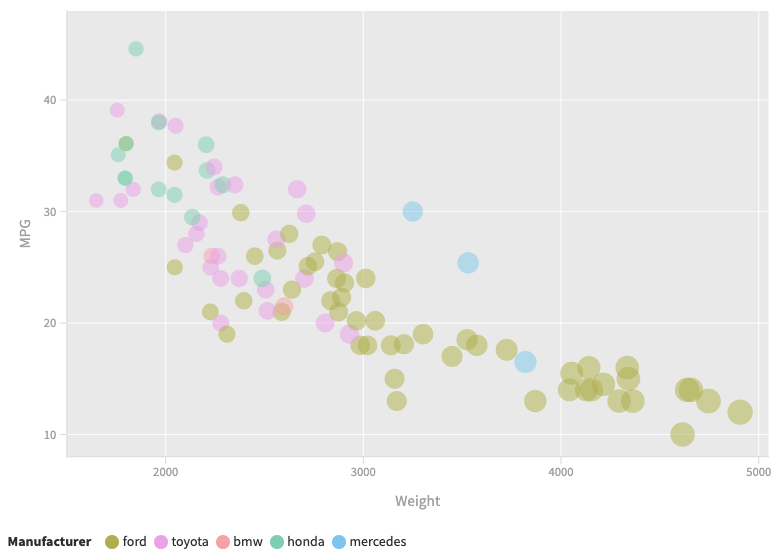
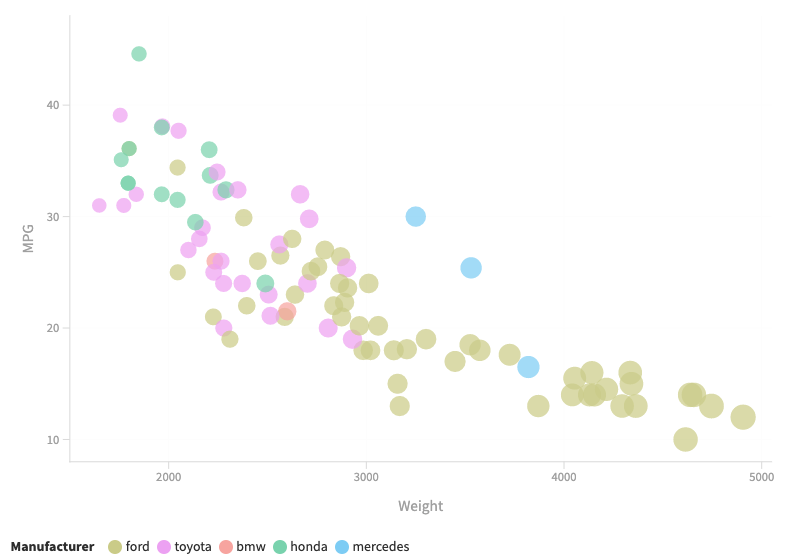
fix all

diff --git a/d3/index.html b/d3/index.html
@@ -1,0 +1,84 @@
+<script src="https://d3js.org/d3.v6.js"></script>
+<svg width="600" height="500"></svg>
+
+<body></body>
+
+<script>
+    var data = d3.csv("cars-sample.csv").then(function(data) {   
+        const xTickValues = [2000, 3000, 4000, 5000];
+        const yTickValues = [10, 20, 30, 40];
+        const xScaleGraph = d3.scaleLinear().domain([1500, 5250]).range([0, 500]);
+        const yScaleGraph = d3.scaleLinear().domain([8, 46]).range([450, 0]);
+
+        const svg = d3.select("svg")
+            .append("svg")
+            .attr("width", 600)
+            .attr("height", 500)
+            .append("g")
+            .attr("transform", "translate(50, 10)");
+
+        const tooltip = d3.select("body")
+            .append("div")
+            .attr("class", "tooltip");
+
+        svg.append("rect").attr("width", 500).attr("height", 450).attr("fill", "#eeeeee");
+
+        svg.append("g").attr("transform", "translate(0, 450)").call(d3.axisBottom(xScaleGraph).tickValues(xTickValues).tickFormat(d3.format("d")));
+        svg.append("g").call(d3.axisLeft(yScaleGraph).tickValues(yTickValues));
+
+        svg.append("text").attr("x", 250).attr("y", 483).text("Weight")
+        svg.append("text")
+            .attr("x", -250)
+            .attr("y", -55)
+            .attr("dy", "1em")
+            .attr("transform", "rotate(-90)")
+            .text("MPG");
+
+        svg.append("g")
+            .attr("class", "heavyGrid")
+            .attr("transform", "translate(0, 450)")
+            .call(d3.axisBottom(xScaleGraph).ticks(5).tickSize(-450).tickFormat(""));
+
+        svg.append("g")
+            .attr("class", "heavyGrid")
+            .call(d3.axisLeft(yScaleGraph).ticks(5).tickSize(-500).tickFormat(""));
+
+        var fixedData = [];
+        for (var i = 0; i < data.length; i++){
+            if (data[i].MPG !== "NA"){
+                fixedData.push(data[i]);
+            }
+        }
+
+        svg.append('g')
+            .selectAll("dot")
+            .data(fixedData)
+            .enter()
+            .append("circle")
+            .attr("r", function (d) { return d.Weight / 400 } )
+            .attr("cx", function (d) { return xScaleGraph(d.Weight) })
+            .attr("cy", function (d) { return yScaleGraph(d.MPG) })
+            .style("opacity", 0.5)
+            .style("fill", function (d) { 
+                if (d.Manufacturer == "bmw") {
+                    return "#f2acac";
+                } else if (d.Manufacturer == "ford") {
+                    return "#b5b84b";
+                } else if (d.Manufacturer == "honda") {
+                    return "#8ed4b6";
+                } else if (d.Manufacturer == "mercedes") {
+                    return "#8dcef0";
+                } else if (d.Manufacturer == "toyota") {
+                    return "#e9acee";
+                }
+            }).on("mousemove", function(event, d){
+                tooltip.html("This " + d.Manufacturer + " MPG and Weight is = (" + d.MPG + ", " + d.Weight + ")");
+            });
+    })
+</script>
+
+<style>
+    .heavyGrid line {
+      stroke: white;
+    }
+</style>

diff --git a/README.md b/README.md
@@ -4,7 +4,13 @@ Assignment 2 - Data Visualization, 5 Ways
 Summary
 ---
 
-For Assignment 2 in CS480X 
+For Assignment 2 in CS480X I decided to go with the following three libraries and two graphing tools:
+
+1. d3 HTML and Javascript
+2. Jupyter Notebook Python Plotly
+3. R + ggplot2
+4. Flourish
+5. Vega-Lite
 
 -   **Miles Gregg**
 
@@ -20,62 +26,58 @@ Links
 d3
 ---
 
-d3 is getting easier to use . I started out using d3 to make the graph becuase I tought it would be the most difficult to design and make the replicate. However it wasn't that bad to implement once I got the initial desin of the axis and lines of the graphs done. d3 has so much more flexiablity to making the graphs though compared to the other four tools I used for this assignment. 
+d3 is getting easier to use . I started out using d3 to make the graph becuase I tought it would be the most difficult to design and make the replicate. However it wasn't that bad to implement once I got the initial desin of the axis and lines of the graphs done. d3 has so much more flexiablity to making the graphs though compared to the other four tools I used for this assignment. In my previous assignment I already had a graph made which for this assignment I edited the graph a lot to plot the data from the csv and to draw the circles on the graph. 
 
-Python Plotly
+Jupyter Notebook Python Plotly
 ---
 
-Python being one of the most used programming languages has some incredable easy graphing interfaces. I usually use matplotlib for graph but I figured that I needed to explore a different plotting tool for python which I later found plotly. Plotly is a very easy to use graphing interface which takes up only a couple lines of code to parse and display your intended graph. I used pandas to read the csv locally and then graphed with plotly which was super easy to do. Plotly ouputs the data graph to local host browser which displays the graph and points. You can also hover of the points in plotly which will tell you move information about a specific point. 
+Jupyter Notebook Python being one of the most used programming languages has some incredable easy graphing interfaces. I usually use matplotlib for graph but I figured that I needed to explore a different plotting tool for python which I later found plotly. Plotly is a very easy to use graphing interface which takes up only a couple lines of code to parse and display your intended graph. I used pandas to read the csv locally and then graphed with plotly which was super easy to do. Plotly ouputs the data graph to local host browser which displays the graph and points. You can also hover of the points in plotly which will tell you move information about a specific point. 
 
-![alt text](img/d3-Graph.png)
+![alt text](img/Plotly-Graph.png)
 
 R + ggplot2
 ---
 
-I used R once before when I took statictics which was useful when graphing the car data. I was able to graph the data correctly only with a few lines of code. Implementing the graph was really straight forward first R has a built in csv reader to read the data and parse it correctly. 
+I used R once before when I took statictics which was useful when graphing the car data. I was able to graph the data correctly only with a few lines of code. Implementing the graph was really straight forward first R has a built in csv reader to read the data and parse it correctly. R is good as visual analysis for statistical computing. Then ggplot2 is a very popular library for making really nice looking graphs in R. I made use of the documentation: https://ggplot2.tidyverse.org/reference/, to sucessfully make a effective graph. Everything in R was really easy to use however I had some trouble at first importing the csv data into R studio. Other than that
 
-Using only 
+![alt text](img/R-Graph.png)
+
+Flourish
+---
+
+Flourish was a very easy software to use which had a very nice user interface with tons of options when making my graph. This software was nice to use since there was no programming involved. 
+
+![alt text](img/Flourish-Graph.png)
 
 Vega-Lite
 ---
 
-Vega-Lite was a very simple and easy to use grpahing tool that is open sourced also. It uses just a simple json file to read specific graphing paramaters to read the data and output a very nice graph from that data. Vega-Lite doesn't have a nice GUI interface like Flourish does but using the json file is easy to use. The website auto updates when you type new information into the json file. I believe this is the future graphing tool because it is very easy to use. It also allows you to import your csv data imput into Vega-Lite which. The documention for Vega-Lite is very nice to use and there is a ton of examples that you can use to model your plot off of.
+Vega-Lite was a very simple and easy to use grpahing tool that is open sourced also. It uses just a simple json file to read specific graphing paramaters to read the data and output a very nice graph from that data. Vega-Lite doesn't have a nice GUI interface like Flourish does, but the json file is easy to use. The website auto updates when you type new information into the json file. I believe this is the future graphing tool because it is very easy to use. It also allows you to import your csv data imput into Vega-Lite which. The documention for Vega-Lite is very nice to use and there is a ton of examples that you can use to model your plot off of.
 
-Technical Achievement Description
----
+![alt text](img/Vega-Lite-Graph.png)
 
-For the techical achievement for this assignment I was successfully able to get data from the California Covid-19 Hospital Data Website: https://data.chhs.ca.gov/dataset/covid-19-hospital-data. This allowed me to get certain data from different months to plot using d3. I plotted Covid-19 data in the state of California for  the months of March and December of 2021. Using Node.js http-server I was able to reload the webpage on port: http://127.0.0.1:8080/ whenever the HTML code would change. 
+# Achievements
 
-![alt text](https://github.com/MilesGregg/a1-ghd3/blob/master/main.png?raw=true)
+## **Technical Achievement Description**
 
-Design Achievement Description
----
+For the techical achievement for this assignment I was 
 
-For the design achievement I was able to make a accurate graph that represents very important data for people to see. I wanted to see the Covid Hospitalizations for the two completely different months of 2021. Designing the graph I made four different shapes for each statisic I am trying to show. The four statistics I'm trying to show are Vax and Unvax Hospitlizations in March 2021 and Vax and Unvax Hospitlizations in December 2021. For the different colors in my graph I was able to use Google Color Picker to choose different colors for different shpaes and lines. 
+- I used Jupyter Notebook to make the plotly graph in becuase it was much faster at loading the http-server to Jupyter Notebook since it also uses the web browser. I was initailly using just regular old python and it takes about 10 seconds to open the web port and to create the graph. 
 
-![alt text](https://github.com/MilesGregg/a1-ghd3/blob/master/color_picker.png?raw=true)
+- 
 
-The polygon shapes were very difficult to do since I had to make points around the current point on the graph. I did this with the following code below. Basically it has 5-3 different points around the current point we are trying to plot. The 5-3 varies based of the shape I am trying to plot. It will then draw the polyPoints variable on the svg using the polygon feature in d3js. The only diffence between the triangle and pendagon code is that the array is different on the second line of code. The pendagon is a size of 5 and triangle is a size of 3.
+## **Design Achievement Description**
 
-```js
-var polyPoints = []
-var pendagonSide = [[-10, -10], [10, -10], [15, 5], [0, 20], [-15, 5]]
-for (var i = 0; i < vax_hos_march.length; i++) {
-    var outputString = "";
-    for (var j = 0; j < pendegonSide.length; j++) {
-        var x = vax_hos_march[i][0] + (pendegonSide[j][0]*0.025);
-        var y = vax_hos_march[i][1] + (pendegonSide[j][1]*0.15);
-        outputString += xScaleGraph1(x.toString()) + "," + yScaleGraph1(y.toString()) + " "
-    }
-    polyPoints.push(outputString);
-}
+For the design achievement I was able to make a accurate graph for all five different types of data visualization softwares I used. There were a few design achievements that I accomplished which I thought were important to have:
 
-svg.append('g')
-    .selectAll("polygon")
-    .data(polyPoints)
-    .enter()
-    .append("polygon")
-    .attr("points", function(d) { return d })
-    .attr("transform", "translate(100, 100)")
-    .style("fill", "#1900ff");
-```
+- For the d3 graph I added a tool tip for when the user hovers over a point on the graph it will display the manufactuer, weight, and MPG of the vechicle. This text is displayed underneath the graph so the uder can see the information easily. I put it under the graph becuase if I were to put it next to the mouse cursor it would difficult to see the text with the other data points around. 
+
+- I used a website called: https://imagecolorpicker.com/en to get the hex and rgb values of the sample cars graph that was givin to me. This was able to get me the values for the colors which are:
+
+1. Ford - HEX: #d0d08d, RGB: rgba(208,208,141,255)
+2. Toyota - HEX: #ecadf7, RGB: rgba(236,173,247,255)
+3. BMW - HEX: #f4ada7, RGB: rgba(244,173,167,255)
+4. Honda - HEX: #8bd7b4, RGB: rgba(139,215,180,255)
+5. Mercedes - HEX: #8fd3f8, RGB: rgba(143,211,248,255)
+
+![alt text](img/Color-Website.png)

diff --git a/Flourish/README.md b/Flourish/README.md
@@ -1,0 +1,1 @@
+https://public.flourish.studio/visualisation/8558801/
